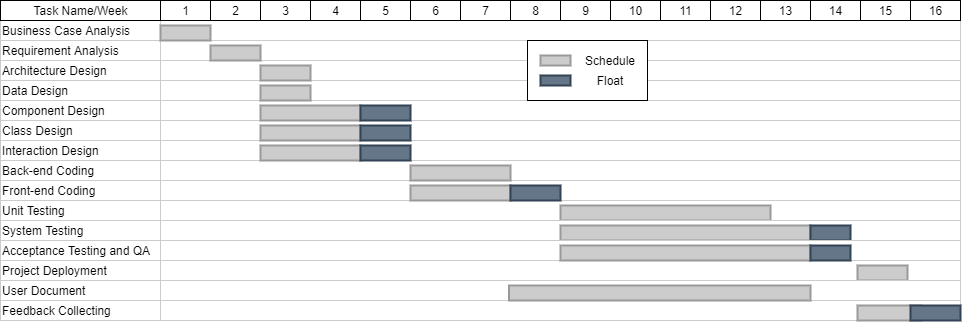
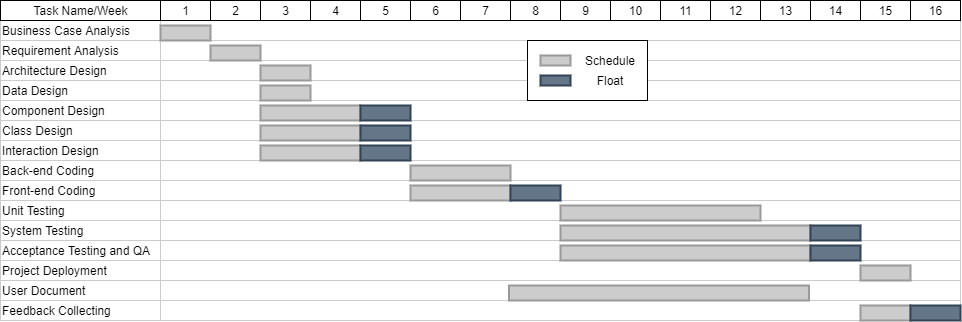
修改老黄gattn图的部分错误并加入Monitor & Control

diff --git a/README.md b/README.md
@@ -1,1 +1,3 @@
 # Software-Project-and-Process-Management
+
+## pics文件夹存放draw.io网站上绘制的图形，请做好备份再保存
